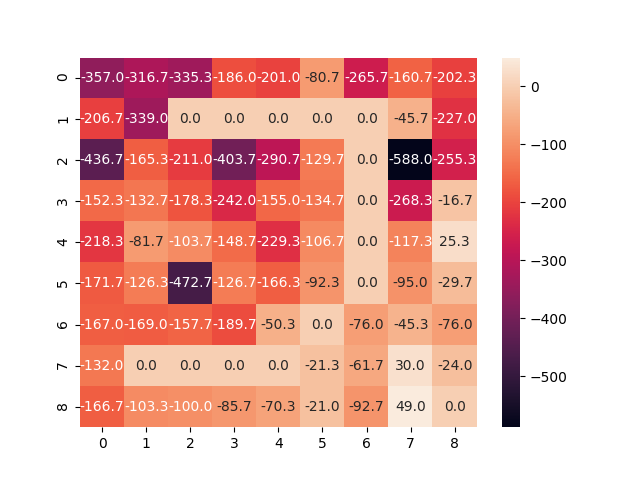
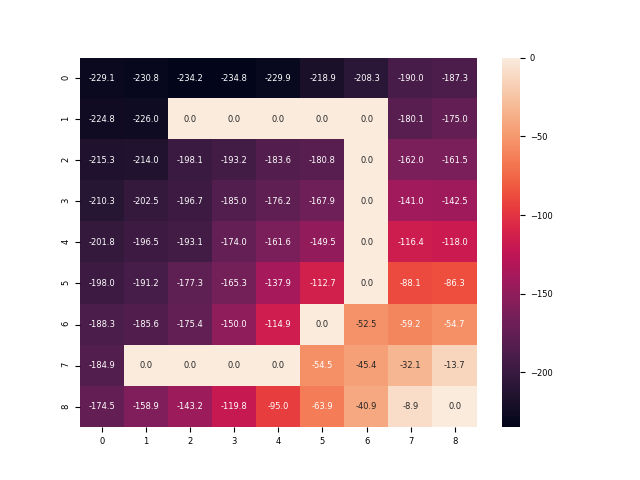
performed 10,000 iterations for montecarlo evaluation and produced heatmap

diff --git a/2_reinforcement_learning/GridWorld.py b/2_reinforcement_learning/GridWorld.py
@@ -14,6 +14,7 @@ class GridWorld:
         self.grid = [[State([j,i]) for i in range(dim)] for j in range(dim)]
         self.init_grid(entities)
         self.total_reward = 0
+        self.print = False
 
     def init_grid(self, entities):
         'populate grid world with entities'
@@ -73,10 +74,12 @@ class GridWorld:
             allowed = True
             # check if the new position is allowed (wall/border)
             if (new_pos[0] < 0 or new_pos[1] < 0)  or (new_pos[0] >= self.dim or new_pos[1] >= self.dim):
-                print(f"!! Path is blocked (border) !!")
+                if self.print:
+                    print(f"!! Path is blocked (border) !!")
                 allowed = False
             elif not self.grid[new_pos[0]][new_pos[1]].movable:
-                print(f"!! Path is blocked (wall) !!")
+                if self.print:
+                    print(f"!! Path is blocked (wall) !!")
                 allowed = False
             return allowed
 
@@ -99,7 +102,8 @@ class GridWorld:
         #     reward = 0
         # if the next position is not allowed (in walls or over borders)
         if check_next_pos(current_pos, new_pos):
-            print(f"next position is allowed!")
+            if self.print:
+                print(f"next position is allowed!")
             reward = self.grid[new_pos[0]][new_pos[1]].reward
             pos = new_pos
             self.total_reward += reward
@@ -108,12 +112,14 @@ class GridWorld:
             #     self.agent.pos = state.pos
         # else if it is allowed, incur rewards and new state
         else:
-            print(f"next position is NOT allowed!")
+            if self.print:
+                print(f"next position is NOT allowed!")
             self.total_reward += -1
             pos = current_pos
 
-        self.print_grid(pos)
-        print(f"{current_pos} --> {pos}")
+        if self.print:
+            self.print_grid(pos)
+            print(f"{current_pos} --> {pos}")
 
         return pos
 
@@ -165,7 +171,8 @@ class GridWorld:
             col = -1
          
         new_pos = (current_pos[0]+row, current_pos[1]+col)
-        print(f"Moved {direction} to: {new_pos}")
+        if self.print:
+            print(f"Moved {direction} to: {new_pos}")
 
         return new_pos
     
@@ -182,6 +189,7 @@ class GridWorld:
 
         # repeat for number of iterations
         for iteration in range(iterations):
+            print(f"ITERATION: {iteration}")
             for row in range(self.dim):
                 for col in range(self.dim):
                     cell = self.grid[row][col]
@@ -198,14 +206,17 @@ class GridWorld:
                     while not s.absorbing:
                         # monitoring
                         # sleep(0.1)
-                        self.clear()
+                        if self.print:
+                            self.clear()
 
                         pos = self.move_agent(direction=self.random_move_agent(), current_pos=pos)
                         s = self.grid[pos[0]][pos[1]]
 
-                    print(f"Terminal state reached: {s.pos} ({s.reward})")
+                    if self.print:
+                        print(f"Terminal state reached: {s.pos} ({s.reward})")
                     cell.v_pi.append(self.total_reward)
-                    print(f"{cell.pos} v_pi: {cell.v_pi}")
+                    if self.print:
+                        print(f"{cell.pos} v_pi: {cell.v_pi}")
         
         # print results
         for row in range(self.dim):

diff --git a/2_reinforcement_learning/Analytics.py b/2_reinforcement_learning/Analytics.py
@@ -14,8 +14,9 @@ class Analytics:
         arr_v = [[arr[j,i].v_pi_mean for i in range(9)] for j in range(9)]
         # plot heatmap
         # plt.figure(figsize=(15,15))
+        plt.rcParams['font.size'] = 6
         sns.heatmap(arr_v, annot=True, fmt='.1f')
         plt.savefig('heatmap.png')
         plt.show()
 
-        print(1)
+        print('Done')

diff --git a/2_reinforcement_learning/Main.py b/2_reinforcement_learning/Main.py
@@ -32,7 +32,7 @@ gw = GridWorld(agent, entities, dim)
 
 # print(gw.calc_all_rewards(agent, policy=0.25))
 
-gw.montecarlo_rl(iterations=50)
+gw.montecarlo_rl(iterations=10000)
 
 print(gw)
 
